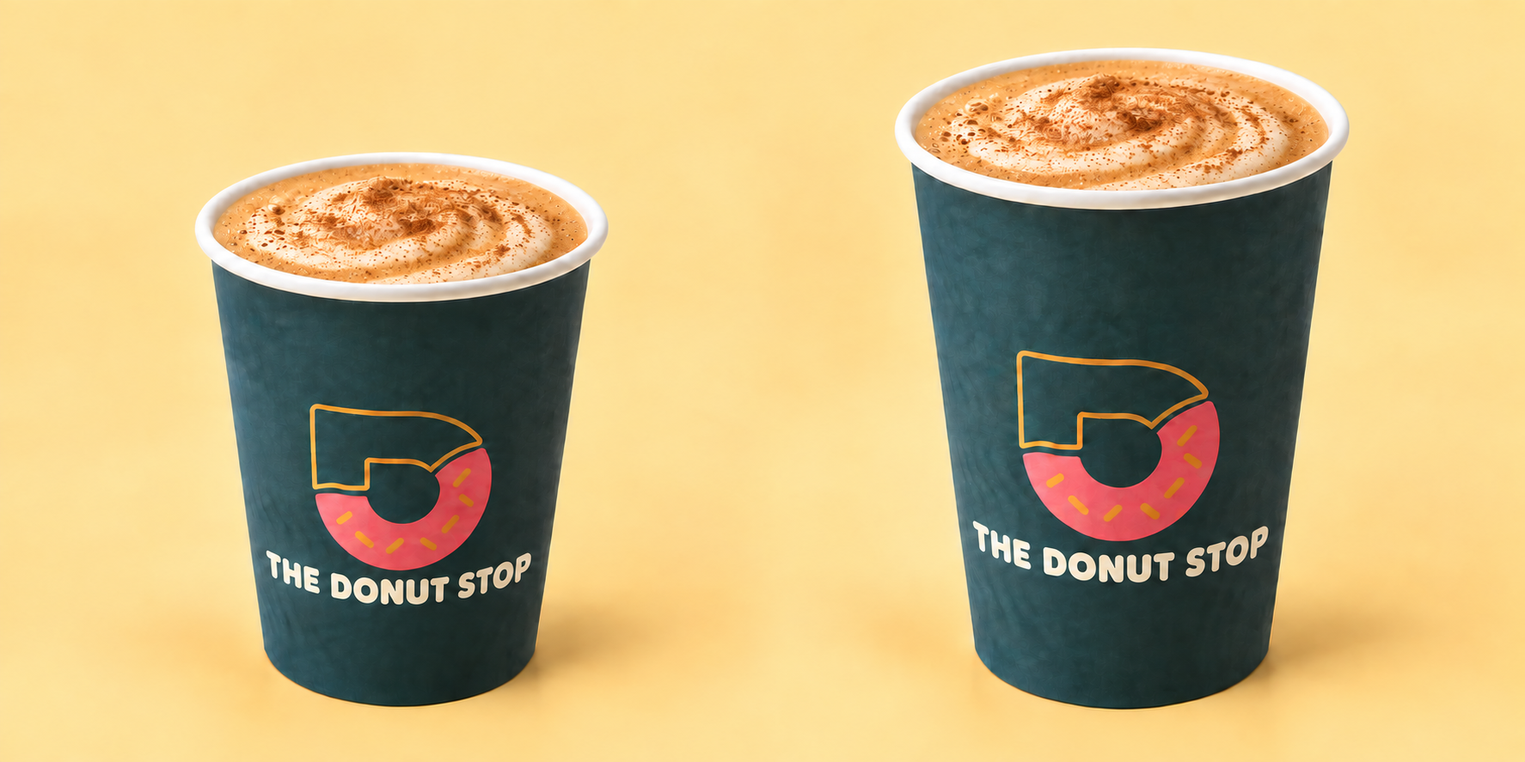
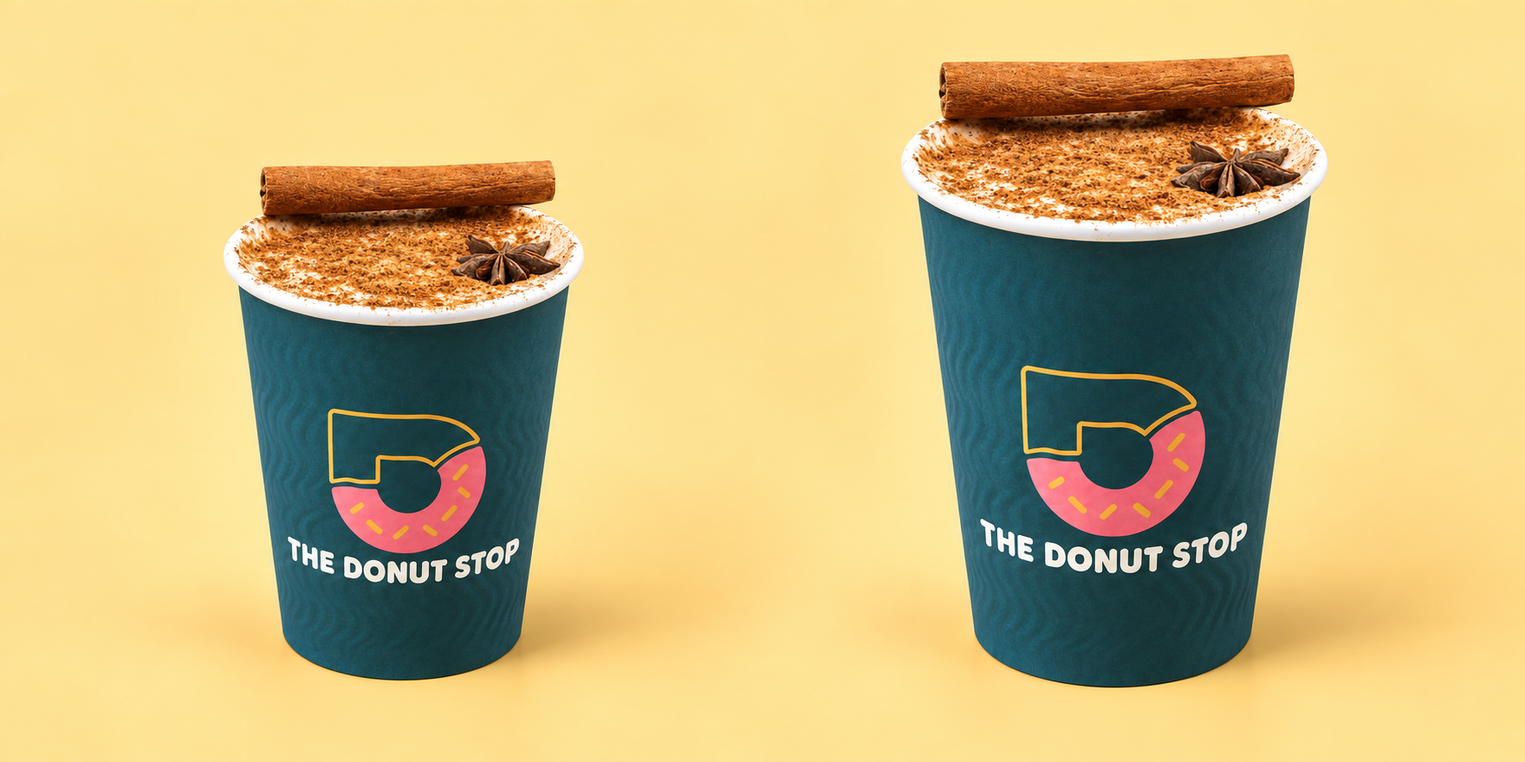
Add new menu items, update product images and prices, sort by price, and improve cart design.

Changed region(s): [[0.5891, 0.0609, 0.8991, 0.9436], [0.124, 0.1826, 0.403, 0.9436]]

diff --git a/src/components/menu/menuData.js b/src/components/menu/menuData.js
@@ -1,13 +1,17 @@
 const menu = {
   donuts: [
-    ['Original Glaze',6,'01-original-glaze.png'],['Coconut Glaze',6,'02-coconut-glaze.png'],['Toasted Coconut Glaze',6,'03-toasted-coconut-glaze.png'],['Powdered Sugar',6,'04-powdered-sugar.png'],['Chocolate Dip',6,'05-chocolate-dip.png'],['Pistachio Dip',6,'06-pistachio-dip.png'],['White Chocolate Dip',6,'07-white-chocolate-dip.png'],['Lemon Dip',6,'08-lemon-dip.png'],['Twister',6,'09-twister.png'],['Nutella Filling',7,'14-nutella-filling.png'],['Boston Cream (Custard Filling)',7,'15-boston-cream-custard-filling.png'],['Lotus Filling',7,'16-lotus-filling.png'],['Caramel Filling',7,'17-caramel-filling.png'],['Oreo Filling',7,'18-oreo-filling.png'],['Lemon Cheesecake',7,'21-lemon-cheesecake.png'],['Ferrero Filling',7,'22-ferrero-filling.png'],['Kinder Bueno Filling',7,'25-kinder-bueno-filling.png'],['Marshmallow Filling',7,'26-marshmallow-filling.png'],['Cotton Candy Filling',7,'27-cotton-candy-filling.png'],['Butter Cookie Filling',7,'28-butter-cookies-filling.png'],['Long John (Custard Filling)',7,'29-long-john-custard-filling.png'],['Bounty Filling',7,'30-bounty-filling.png'],['Pistachio Filling',8,'13-pistachio-filling.png'],['Strawberry Filling',8,'19-strawberry-filling.png'],['Blueberry Filling',8,'20-blueberry-filling.png'],['Apple Fritter',8,'31-apple-fritter.png'],['Crème Brûlée Donut',8,'32-creme-brulee-donut.png'],['Dubai Donut',10,'10-dubai-donut.png'],['Tiramisu Filling',10,'11-tiramisu-filling.png'],['Pecan Donut',10,'12-pecan-donut.png'],['Red Velvet with Cream Cheese',10,'34-red-velvet-cream-cheese.png'],['Blueberry Cheesecake',10,'35-blueberry-cheesecake.png'],['Strawberry Jam & Cream',10,'36-strawberry-jam-cream.png'],['Mini Donut Bites',20,'33-mini-donut-bites.png']
+    ['Original Glaze',6,'01-original-glaze.png'],['Coconut Glaze',6,'02-coconut-glaze.png'],['Toasted Coconut Glaze',6,'03-toasted-coconut-glaze.png'],['Powdered Sugar',6,'04-powdered-sugar.png'],['Chocolate Dip',6,'05-chocolate-dip.png'],['Pistachio Dip',6,'06-pistachio-dip.png'],['White Chocolate Dip',6,'07-white-chocolate-dip.png'],['Lemon Dip',6,'08-lemon-dip.png'],['Twister',6,'09-twister.png'],['Nutella Filling',7,'14-nutella-filling.png'],['Boston Cream (Custard Filling)',7,'15-boston-cream-custard-filling.png'],['Lotus Filling',7,'16-lotus-filling.png'],['Caramel Filling',7,'17-caramel-filling.png'],['Oreo Filling',7,'18-oreo-filling.png'],['Lemon Cheesecake',7,'21-lemon-cheesecake.png'],['Ferrero Filling',7,'22-ferrero-filling.png'],['Kinder Bueno Filling',7,'25-kinder-bueno-filling.png'],['Marshmallow Filling',7,'26-marshmallow-filling.png'],['Cotton Candy Filling',7,'27-cotton-candy-filling.png'],['Butter Cookie Filling',7,'28-butter-cookies-filling.png'],['Long John (Custard Filling)',7,'29-long-john-custard-filling.png'],['Bounty Filling',7,'30-bounty-filling.png'],['Pistachio Filling',8,'13-pistachio-filling.png'],['Strawberry Filling',8,'19-strawberry-filling.png'],['Blueberry Filling',8,'20-blueberry-filling.png'],['Apple Fritter',8,'31-apple-fritter.png'],['Crème Brûlée Donut',8,'32-creme-brulee-donut.png'],['Dubai Donut',10,'10-dubai-donut.png'],['Tiramisu Filling',10,'11-tiramisu-filling.png'],['Pecan Donut',10,'12-pecan-donut.png'],['Red Velvet with Cream Cheese',10,'34-red-velvet-cream-cheese.png'],['Blueberry Cheesecake',10,'35-blueberry-cheesecake.png'],['Strawberry Jam & Cream',10,'36-strawberry-jam-cream.png'],['Peanut Butter & Jam',10,'37-peanut-butter-jam.png'],['Halawa',7,'38-halawa.png'],['Pumpkin',10,'39-pumpkin.png'],['Cinnamon Rolls',8,'40-cinnamon-rolls.png'],['Mini Donut Bites',20,'33-mini-donut-bites.png']
   ],
-  hot: [['Americano','S 10 / L 12'],['Cappuccino','S 10 / L 12'],['Flat White',12],['Latte',12],['Mocha',14],['White Mocha',14],['Hot Chocolate',14],['Marshmallow Hot Chocolate',14],['Chai Latte',14],['French Vanilla',14],['Hot Hazelnut',14],['Hot Lotus',14],['Hot Spanish Latte',14],['Hot Salted Caramel',14],['Sahlab',14],['Pumpkin Spice Latte',14],['Espresso','S 8 / L 10'],['Ristretto',7],['Lungo',7],['Doppio',10]],
-  cold: [['Iced Coffee','S 14 / L 16'],['Iced Coffee Diet','S 14 / L 16'],['Iced Cappuccino',15],['Iced Latte',15],['Iced Americano',12],['Iced Spanish Latte',15],['Iced Vanilla',15],['Iced Chocolate',15],['Iced Tea',12],['Iced Lemon Mint',14],['Classic Mojito',14],['Strawberry Mojito',14],['Passion Fruit Mojito',14],['Blueberry Mojito',14],['Watermelon Mojito',14],['Bubble Gum Mojito',14],['Mango Mojito',14],['Mix Berries Mojito',14],['Pineapple Mojito',14],['Kiwi Mojito',14],['Green Apple Mojito',14],['Blue Curacao Mojito',14],['Strawberry Kiwi Mojito',14],['Mango Passion Mojito',14],['Berry Mix Mojito',14],['Tropical Mojito',14],['Blue Lagoon Mojito',14]],
+  hot: [['Americano','S 10 / L 12'],['Cappuccino','S 10 / L 12'],['Flat White',12],['Latte',12],['Mocha',14],['White Mocha',14],['Hot Chocolate',14],['Marshmallow Hot Chocolate',14],['Chai Latte',14],['French Vanilla',14],['Hot Hazelnut',14],['Hot Lotus',14],['Hot Spanish Latte',14],['Hot Salted Caramel',14],['Sahlab',14],['Pumpkin Spice Latte',15],['Chai Pumpkin Spice',15],['Caramel Pumpkin Latte',15],['Espresso','S 8 / L 10'],['Ristretto',7],['Lungo',7],['Doppio',10]],
+  cold: [['Ice Pumpkin Latte',16],['Ice Pumpkin',15],['Iced Coffee','S 14 / L 16'],['Iced Coffee Diet','S 14 / L 16'],['Iced Cappuccino',15],['Iced Latte',15],['Iced Americano',12],['Iced Spanish Latte',15],['Iced Vanilla',15],['Iced Chocolate',15],['Iced Tea',12],['Iced Lemon Mint',14],['Classic Mojito',14],['Strawberry Mojito',14],['Passion Fruit Mojito',14],['Blueberry Mojito',14],['Watermelon Mojito',14],['Bubble Gum Mojito',14],['Mango Mojito',14],['Mix Berries Mojito',14],['Pineapple Mojito',14],['Kiwi Mojito',14],['Green Apple Mojito',14],['Blue Curacao Mojito',14],['Strawberry Kiwi Mojito',14],['Mango Passion Mojito',14],['Berry Mix Mojito',14],['Tropical Mojito',14],['Blue Lagoon Mojito',14]],
   blends: [['Strawberry Smoothie',14],['Mango Smoothie',14],['Mix Berries Smoothie',14],['Blueberry Smoothie',14],['Pineapple Smoothie',14],['Passion Fruit Smoothie',14],['Watermelon Smoothie',14],['Vanilla Espresso Frappe',14],['Chocolate Espresso Frappe',16],['Caramel Espresso Frappe',16]]
 };
 
 const donutDescriptions = {
+  "Cinnamon Rolls": { ar: 'رول القرفة بطبقة جليز حلوة وخفيفة', en: 'A cinnamon roll with a light, sweet glaze' },
+  "Peanut Butter & Jam": { ar: 'دونات بزبدة الفول السوداني والمربّى', en: 'A donut with peanut butter and jam' },
+  "Halawa": { ar: 'دونات بالحلاوة والفستق', en: 'A donut topped with halawa and pistachios' },
+  "Pumpkin": { ar: 'دونات بنكهة اليقطين', en: 'A pumpkin-flavored donut' },
   "Original Glaze": {
     "ar": "بطبقة جليز حلوة وخفيفة",
     "en": "A light, sweet glaze"
@@ -147,6 +151,8 @@ const donutDescriptions = {
 };
 
 const coldDrinkDescriptions = {
+  "Ice Pumpkin Latte": { ar: 'لاتيه بارد بنكهة اليقطين', en: 'An iced pumpkin latte' },
+  "Ice Pumpkin": { ar: 'مشروب اليقطين البارد بالكريمة والتوابل', en: 'A chilled pumpkin drink with cream and spices' },
   "Iced Coffee": {
     "ar": "قهوة باردة بالحليب والثلج",
     "en": "Chilled coffee with milk and ice"

diff --git a/output/autumn-catalog/preview.html b/output/autumn-catalog/preview.html
@@ -1,0 +1,1 @@
+<!doctype html><html lang="ar" dir="rtl"><meta charset="utf-8"><meta name="viewport" content="width=device-width,initial-scale=1"><title>الأصناف الجديدة — معاينة</title><link rel="stylesheet" href="/src/styles/global.css"><style>body{padding:32px max(20px,5vw)}main{max-width:1150px;margin:auto}h1{margin:8px 0}header p{color:#607775;line-height:1.8}.grid{display:grid;grid-template-columns:repeat(3,minmax(0,1fr));gap:20px;margin-bottom:36px}.card{background:white;border-radius:22px;overflow:hidden;border:1px solid #eee5d7}.photo{position:relative;aspect-ratio:1.3;overflow:hidden;background:#ffe299}.photo.donut{display:grid;place-items:center;background:#ffd7df}.photo.donut img{width:85%;height:90%;object-fit:contain}.photo.drink{aspect-ratio:1}.photo.drink img{position:absolute;width:200%;height:100%;max-width:none;left:-100%;top:0}.info{padding:20px;display:flex;align-items:center;justify-content:space-between;gap:15px}h3{font-family:'DM Sans',sans-serif;font-size:16px;margin:0;text-align:start}strong{white-space:nowrap;color:#9d3c58}.notice{padding:12px 18px;border-radius:12px;background:#fff0ce;line-height:1.7}@media(max-width:700px){.grid{grid-template-columns:repeat(2,minmax(0,1fr));gap:12px}.info{padding:14px;flex-wrap:wrap}h3{font-size:14px}}@media(max-width:380px){.grid{grid-template-columns:1fr}}</style><main><header><span class="eyebrow">THE DONUT STOP</span><h1>نكهات جديدة، بنفس الحلاوة</h1><p>الأصناف والصور والأسعار المعتمدة.</p><p class="notice">الصور المعتمدة: Pumpkin بالكريمة والبيكان، Pumpkin Spice Latte بالقرفة واليانسون، Caramel برسمة اللاتيه، وChai بالكوب المزيّن بالمكسرات. أُضيف Cinnamon Rolls بسعر 8 شيقل.</p></header><h2>الدونات</h2><div class="grid"><article class="card"><div class="photo donut"><img src="/assets/donuts/38-halawa.png" alt="Halawa"></div><div class="info"><h3 dir="ltr">Halawa</h3><strong>7 ₪</strong></div></article><article class="card"><div class="photo donut"><img src="/assets/donuts/40-cinnamon-rolls.png?v=2" alt="Cinnamon Rolls"></div><div class="info"><h3 dir="ltr">Cinnamon Rolls</h3><strong>8 ₪</strong></div></article><article class="card"><div class="photo donut"><img src="/assets/donuts/37-peanut-butter-jam.png" alt="Peanut Butter &amp; Jam"></div><div class="info"><h3 dir="ltr">Peanut Butter &amp; Jam</h3><strong>10 ₪</strong></div></article><article class="card"><div class="photo donut"><img src="/assets/donuts/39-pumpkin.png" alt="Pumpkin"></div><div class="info"><h3 dir="ltr">Pumpkin</h3><strong>10 ₪</strong></div></article></div><h2>المشروبات الساخنة</h2><div class="grid"><article class="card"><div class="photo drink"><img src="/assets/hot-drinks/Pumpkin%20Spice%20Latte.png" alt="Pumpkin Spice Latte"></div><div class="info"><h3 dir="ltr">Pumpkin Spice Latte</h3><strong>15 ₪</strong></div></article><article class="card"><div class="photo drink"><img src="/assets/hot-drinks/Chai%20Pumpkin%20Spice.png" alt="Chai Pumpkin Spice"></div><div class="info"><h3 dir="ltr">Chai Pumpkin Spice</h3><strong>15 ₪</strong></div></article><article class="card"><div class="photo drink"><img src="/assets/hot-drinks/Caramel%20Pumpkin%20Latte.png" alt="Caramel Pumpkin Latte"></div><div class="info"><h3 dir="ltr">Caramel Pumpkin Latte</h3><strong>15 ₪</strong></div></article></div><h2>المشروبات الباردة</h2><div class="grid"><article class="card"><div class="photo drink"><img src="/assets/cold-drinks/Ice%20Pumpkin.png" alt="Ice Pumpkin"></div><div class="info"><h3 dir="ltr">Ice Pumpkin</h3><strong>15 ₪</strong></div></article><article class="card"><div class="photo drink"><img src="/assets/cold-drinks/Ice%20Pumpkin%20Latte.png" alt="Ice Pumpkin Latte"></div><div class="info"><h3 dir="ltr">Ice Pumpkin Latte</h3><strong>16 ₪</strong></div></article></div></main></html>

diff --git a/src/components/orders/orders.css b/src/components/orders/orders.css
@@ -1,1 +1,10 @@
 .order-tracking{scroll-margin-top:85px;padding:24px max(5vw,20px) 0;display:grid;gap:12px}.order-status{display:flex;align-items:flex-start;gap:16px;border:1px solid #b9cfca;border-radius:20px;padding:22px;background:#f1f7ee;color:var(--dark)}.order-status-icon{margin-top:3px;flex-shrink:0}.order-status-content{flex:1;min-width:0}.order-status h2{font-size:19px;margin:0 0 8px}.order-status h2 bdi{display:inline-block;margin-inline-start:8px}.order-status p{margin:0 0 10px}.order-status small{display:block}.tracking-hint{opacity:.75;margin-top:8px}.order-status-cancelled{background:#fff0f0;border-color:#e4b9bc}.tracking-error{margin-top:12px;color:#922b35}.tracking-error button,.tracking-dismiss{font:inherit;color:inherit;border:1px solid currentColor;border-radius:20px;padding:6px 14px;background:transparent;cursor:pointer}.order-status button:focus-visible{outline:3px solid #c75980;outline-offset:3px}@media(max-width:500px){.order-status{padding:16px;gap:10px;flex-wrap:wrap}.order-status h2{font-size:17px}.tracking-dismiss{margin-inline-start:auto}}
+
+.order-tracking{max-width:1220px;margin-inline:auto;padding-top:32px}
+.order-status{position:relative;gap:20px;padding:28px;background:linear-gradient(115deg,#fff7ed,#fff5f7);border:1px solid #eedbd7;border-radius:26px;box-shadow:0 12px 32px #63413306}
+.order-status-symbol{width:52px;height:52px;display:grid;place-items:center;flex-shrink:0;background:#19494b;color:#ffe1a0;border-radius:17px}
+.order-status-icon{margin:0}.order-status h2{font-size:24px;margin:6px 0 12px;line-height:1.5}.order-status h2 bdi{font-family:'DM Sans',sans-serif;font-size:15px;background:white;border:1px solid #eadbd4;border-radius:8px;padding:4px 9px;vertical-align:middle}
+.tracking-eyebrow{font-size:13px;font-weight:800;color:#a04460}.order-status p{line-height:1.7;font-size:16px}.order-status small{color:#526e6c;font-size:14px}.tracking-hint{opacity:1;display:flex!important;align-items:center;gap:7px}.tracking-hint::before{content:'';width:6px;height:6px;background:#397569;border-radius:50%;flex:none}
+.tracking-steps{list-style:none;display:flex;padding:22px 0 18px;margin:20px 0 0;border-top:1px solid #eaded7}.tracking-steps li{position:relative;flex:1;display:flex;flex-direction:column;align-items:center;gap:10px;text-align:center;color:#697b77;font-size:13px;font-weight:700;line-height:1.5}.tracking-steps li:not(:last-child)::after{content:'';position:absolute;top:16px;inset-inline-start:calc(50% + 22px);width:calc(100% - 44px);height:2px;background:#d9dfd7}.tracking-step-dot{display:grid;place-items:center;width:34px;height:34px;border-radius:50%;border:1px solid #d8dfd8;background:#fffcf7;font-family:'DM Sans',sans-serif;font-size:13px}.tracking-steps .is-current{color:#17484b}.is-current .tracking-step-dot{background:#17484b;border-color:#17484b;color:white;box-shadow:0 0 0 5px #17484b0d}.is-done .tracking-step-dot{background:#dcebe2;border-color:#a7c6b6;color:#17484b}.tracking-steps .is-done::after{background:#84aea0}
+.order-status-cancelled{background:#fff0f0;border-color:#e4b9bc}.order-status-cancelled .order-status-symbol{background:#963f4d;color:white}.tracking-error{padding:12px;background:#ffffffb3;border-radius:12px}.tracking-error p{font-size:14px}
+@media(max-width:600px){.order-tracking{padding:20px 20px 0}.order-status{padding:20px;gap:12px}.order-status-symbol{width:40px;height:40px;border-radius:13px}.order-status h2{font-size:21px}.order-status h2 bdi{margin:4px 0;font-size:12px}.tracking-eyebrow{font-size:12px}.tracking-steps{margin-inline-start:-52px}.tracking-steps li{font-size:11px}.order-status p{font-size:14px}.order-status small{font-size:12px}}

diff --git a/src/components/orders/OrderTracker.jsx b/src/components/orders/OrderTracker.jsx
@@ -47,14 +47,18 @@ function OrderStatus({ order }) {
     completed: en ? `Your order has been completed (${delivery ? 'delivery' : 'pickup'}). Thank you!` : `تم إكمال طلبك (${delivery ? 'توصيل' : 'استلام من الفرع'}). شكرًا لك!`,
     cancelled: en ? 'Your order has been cancelled.' : 'تم إلغاء طلبك.',
   };
+  const steps = en ? ['Sent', 'Preparing', delivery ? 'Ready for delivery' : 'Ready for pickup', 'Completed'] : ['تم الإرسال', 'قيد التحضير', delivery ? 'جاهز للتوصيل' : 'جاهز للاستلام', 'مكتمل'];
+  const stepIndex = ['new', 'preparing', 'ready', 'completed'].indexOf(order.status);
   const Icon = order.status === 'cancelled' ? CancelOutlinedIcon : ['ready', 'completed'].includes(order.status) ? CheckCircleOutlineIcon : AccessTimeIcon;
   return <article className={`order-status order-status-${order.status}`} aria-label={`${en ? 'Order' : 'الطلب'} ${order.order_number}`}>
-    <Icon className="order-status-icon" />
+    <div className="order-status-symbol"><Icon className="order-status-icon" /></div>
     <div className="order-status-content">
+      <span className="tracking-eyebrow">{en ? "A little happiness is on its way" : "طلبك الحلو… خطوة بخطوة"}</span>
       <h2>{en ? 'Track your order' : 'متابعة طلبك'} <bdi>{order.order_number}</bdi></h2>
       <p role="status" aria-live="polite" aria-atomic="true">{messages[order.status]}</p>
       <small>{en ? order.branch_name_en : order.branch_name_ar} · {order.total} ₪ · {delivery ? (en ? 'Delivery' : 'توصيل') : (en ? 'Pickup' : 'استلام من الفرع')}</small>
-      {!final && <small className="tracking-hint">{en ? 'Status updates automatically every 5 seconds.' : 'تتحدّث حالة الطلب تلقائيًا كل 5 ثوانٍ.'}</small>}
+      {order.status !== 'cancelled' && <ol className="tracking-steps" aria-label={en ? 'Order progress' : 'مراحل الطلب'}>{steps.map((label, index) => <li key={label} className={index < stepIndex ? 'is-done' : index === stepIndex ? 'is-current' : ''} aria-current={index === stepIndex ? 'step' : undefined}><span className="tracking-step-dot" aria-hidden="true">{index < stepIndex ? '✓' : index + 1}</span><span>{label}</span></li>)}</ol>}
+      {!final && <small className="tracking-hint">{en ? 'We’ll keep you updated automatically.' : 'خليك معنا، حالة طلبك بتتحدّث تلقائيًا.'}</small>}
       {error && <div className="tracking-error" role="alert"><p>{error === 'missing' ? (en ? 'This order could not be found. Contact the branch with your order number.' : 'تعذّر العثور على الطلب. تواصل مع الفرع مع ذكر رقم طلبك.') : (en ? 'Unable to refresh the status. Showing the last known update; reconnecting automatically.' : 'تعذّر تحديث الحالة. نعرض آخر حالة معروفة ونحاول الاتصال مجددًا.')}</p><button type="button" onClick={() => setRevision(value => value + 1)}>{en ? 'Retry' : 'إعادة المحاولة'}</button></div>}
     </div>
     {final && <button type="button" className="tracking-dismiss" onClick={() => dismissOrder(order.requestId)}>{en ? 'Dismiss' : 'إخفاء'}</button>}

diff --git a/src/components/cart/cart.css b/src/components/cart/cart.css
@@ -5,3 +5,6 @@
 .offer-options .offer-option{display:flex;align-items:center;flex-wrap:wrap;gap:12px;padding:12px;border:1px solid #b9cfca;border-radius:12px;background:white}.offer-option-product{flex:1}.offer-option .quantity-controls{width:100%;justify-content:flex-end}.offer-options .quantity-controls button{padding:8px;min-width:44px;min-height:44px}.offer-actions{padding-top:16px}.offer-actions p{margin:0 0 8px}.offer-actions .quantity-confirm{margin-top:8px}
 .cart-heading{display:flex;align-items:center;justify-content:space-between;flex-wrap:wrap;gap:12px;margin-bottom:12px}.cart-heading h2{margin:0}.cart-clear{display:inline-flex;align-items:center;justify-content:center;gap:8px;min-height:44px;color:#a02b35}
 .cart-clear.tab svg{color:#a02b35}.cart-clear.tab:not(:disabled):hover{background:#a02b35;border-color:#a02b35;color:white}.cart-clear.tab:not(:disabled):hover svg{color:white}
+
+.cart-page{max-width:1220px;margin-inline:auto;padding-top:36px;padding-bottom:64px;min-height:0}.cart-page .breadcrumbs{font-size:14px;margin-bottom:28px}.cart-page .section-heading{align-items:center;margin-bottom:24px}.cart-page h1{font-size:clamp(32px,4vw,46px);margin:6px 0 8px;line-height:1.2}.cart-page-eyebrow,.cart-empty-eyebrow{color:#a04460;font-size:12px;font-weight:800;letter-spacing:.05em}.cart-page-intro{margin:0;color:#607775;font-size:16px;line-height:1.6}.cart-page .section-heading>.tab{flex-shrink:0;background:transparent}.cart-page .section-heading>.tab:hover{background:var(--dark)}.cart-page .cart-panel{border-color:#e8e2d7;border-radius:26px;box-shadow:0 10px 30px #19474a05;margin:0}.cart-page .cart-panel-empty{background:linear-gradient(110deg,#fffdf8,#fff);padding:30px 40px}.cart-empty{display:flex;align-items:center;justify-content:center;gap:42px;max-width:780px;margin:auto;padding:16px 0}.cart-empty-art{position:relative;display:grid;place-items:center;flex:0 0 180px;width:180px;height:180px;border-radius:50%;background:#ffe6e8}.cart-empty-art::before{content:'';position:absolute;inset:12px;border:1px dashed #d9919f;border-radius:50%}.cart-empty-art img{position:relative;width:160px;height:160px;object-fit:contain;transform:rotate(-13deg);filter:drop-shadow(0 12px 12px #994e4220)}.cart-empty-spark{position:absolute;top:10px;inset-inline-end:0;font-size:34px;color:#a85d13}.cart-empty-copy{max-width:430px}.cart-empty-copy h2{font-size:clamp(24px,3vw,31px);margin:10px 0 12px;line-height:1.4}.cart-empty-copy p{color:#607775;line-height:1.9;margin:0 0 22px;font-size:16px}.cart-empty .button{font-size:15px;padding:14px 24px;gap:20px}
+@media(max-width:600px){.cart-page{padding-top:28px;padding-bottom:40px}.cart-page .section-heading{gap:18px}.cart-page .cart-panel-empty{padding:24px 20px}.cart-empty{flex-direction:column;gap:24px;text-align:center;padding:6px 0}.cart-empty-art{flex-basis:140px;width:140px;height:140px}.cart-empty-art img{width:125px;height:125px}.cart-empty-copy p{font-size:14px}.cart-page-intro{font-size:14px}.cart-empty .button{width:100%}}

diff --git a/src/components/cart/Cart.jsx b/src/components/cart/Cart.jsx
@@ -8,6 +8,7 @@ import { offerTitle } from '../../lib/offerCatalog';
 import { supabase } from '../../lib/supabase';
 import { isAvailable, tracksQuantity } from '../../lib/availability';
 import './cart.css';
+import EmptyCart from './EmptyCart';
 import { useOrderTracking } from '../orders/OrderTrackingContext';
 import PauseCircleOutlineIcon from '@mui/icons-material/PauseCircleOutlined';
 import useOrderHold from '../../lib/useOrderHold';
@@ -98,6 +99,7 @@ export default function Cart({ branch, cart, setCart, rows, en, locked, setLocke
       }
     } finally { sendingRef.current = false; setSending(false); if (!pending.current) setLocked(false); }
   }
+  if (!cart.length) return <section className="cart-panel cart-panel-empty"><EmptyCart en={en} branch={branch} /></section>;
   return <section className="cart-panel" aria-labelledby="cart-title"><div className="cart-heading"><h2 id="cart-title">{en ? 'Your cart' : 'سلة الطلب'}</h2>{cart.length > 0 && <button className="tab cart-clear" type="button" disabled={locked || sending} onClick={clearCart}><DeleteOutlineIcon aria-hidden="true" />{en ? 'Clear cart' : 'إفراغ السلة'}</button>}</div><p>{en ? 'Your order is from ' : 'طلبك من فرع '}<strong>{en ? branch.name_en : branch.name_ar}</strong></p>
     {!cart.length ? <p>{en ? 'Your cart is empty.' : 'السلة فارغة.'}</p> : <>
       <ul className="cart-lines">{cart.map(item => <li key={item.id}><div className="cart-product">{productImage(item) && <img src={productImage(item)} alt="" loading="lazy" decoding="async" />}<div><strong>{item.name}</strong> {item.size !== 'standard' && `(${item.size})`}<p>{quote?.lines.find(line => line.variant_id === item.id)?.unit_price ?? item.price} ₪ × {item.quantity}</p>{Number(quote?.lines.find(line => line.variant_id === item.id)?.free_quantity) > 0 && <small className="cart-free">{en ? 'Free donuts: ' : 'حبات مجانية: '}{quote.lines.find(line => line.variant_id === item.id).free_quantity}</small>}</div></div><div className="quantity-controls"><button type="button" disabled={locked} aria-label={`${en ? 'Decrease' : 'تقليل'} ${item.name}`} onClick={() => change(item.id,-1)}><RemoveIcon /></button><span>{item.quantity}</span><button type="button" disabled={locked || !canIncrease(item)} aria-label={`${en ? 'Increase' : 'زيادة'} ${item.name}`} onClick={() => change(item.id,1)}><AddIcon /></button><button type="button" disabled={locked} onClick={() => setCart(current => current.filter(value => value.id !== item.id))}>{en ? 'Remove' : 'حذف'}</button></div></li>)}</ul>

diff --git a/src/components/menu/MenuCatalog.jsx b/src/components/menu/MenuCatalog.jsx
@@ -18,13 +18,22 @@ export default function MenuCatalog() {
     setCategory(categories[next][0]);
     document.getElementById(`tab-${categories[next][0]}`)?.focus();
   }
-  const heading = index => category === 'cold' ? ({ 0: 'مشروبات باردة', 10: 'نكهات الموهيتو', 21: 'خلطات الموهيتو' })[index] : category === 'blends' ? ({ 0: 'سموذي', 7: 'فرابيه' })[index] : null;
+  const priceFor = ([, price]) => {
+    if (typeof price === 'number') return price;
+    const prices = price.match(/^S (\d+) \/ L (\d+)$/);
+    return Number(prices[1]);
+  };
+  const groups = category === 'cold'
+    ? [['مشروبات باردة', menu.cold.filter(([name]) => !name.includes('Mojito'))], ['نكهات الموهيتو', menu.cold.filter(([name]) => name.includes('Mojito'))]]
+    : category === 'blends'
+      ? [['سموذي', menu.blends.filter(([name]) => name.includes('Smoothie'))], ['فرابيه', menu.blends.filter(([name]) => name.includes('Frappe'))]]
+      : [[null, menu[category]]];
   return <>
     <div className="tabs" role="tablist" aria-label={t('فئات المنيو')}>
       {categories.map(([key, label], index) => <button key={key} id={`tab-${key}`} type="button" className={`tab${category === key ? ' active' : ''}`} role="tab" aria-selected={category === key} aria-controls="menu-list" tabIndex={category === key ? 0 : -1} onKeyDown={event => moveTab(event, index)} onClick={() => setCategory(key)}>{t(label)}</button>)}
     </div>
     <div id="menu-list" className={`menu-grid ${category === 'donuts' ? 'donut-grid' : 'hot-drink-grid'}`} role="tabpanel" aria-labelledby={`tab-${category}`} tabIndex={0}>
-      {menu[category].map((item, index) => <Fragment key={item[0]}>{heading(index) && <h2 className="menu-group-heading">{t(heading(index))}</h2>}{category === 'donuts' ? <DonutCard item={item} index={index} /> : <DrinkCard item={item} category={category} selectedSize={sizes[item[0]]} onSizeChange={selectSize} />}</Fragment>)}
+      {groups.map(([heading, items]) => <Fragment key={heading || category}>{heading && <h2 className="menu-group-heading">{t(heading)}</h2>}{[...items].sort((a, b) => priceFor(a) - priceFor(b)).map((item, index) => category === 'donuts' ? <DonutCard key={item[0]} item={item} index={index} /> : <DrinkCard key={item[0]} item={item} category={category} selectedSize={sizes[item[0]]} onSizeChange={selectSize} />)}</Fragment>)}
     </div>
   </>;
 }

diff --git a/src/components/menu/BranchMenu.jsx b/src/components/menu/BranchMenu.jsx
@@ -12,6 +12,16 @@ import CheckRoundedIcon from '@mui/icons-material/CheckRounded';
 const categories = [['donuts', 'دونات', 'Donuts'], ['hot', 'مشروبات ساخنة', 'Hot drinks'], ['cold', 'مشروبات باردة', 'Cold drinks'], ['blends', 'سموذي وفرابيه', 'Smoothies & frappes']];
 const storageKey = 'donut-stop-branch';
 
+function productVariants(product) {
+  return [...product.variants].sort((a, b) => ({ S: 0, L: 1 }[a.product_variants.size] ?? 0) - ({ S: 0, L: 1 }[b.product_variants.size] ?? 0));
+}
+
+function startingPrice(product) {
+  const variants = productVariants(product);
+  const row = variants[0];
+  return Number(row.price_override ?? row.product_variants.price);
+}
+
 export default function BranchMenu() {
   const { language } = useLanguage();
   const en = language === 'en';
@@ -103,8 +113,8 @@ export default function BranchMenu() {
     {error ? <div role="alert"><p>{en ? 'We could not load availability. Please try again.' : 'تعذّر تحميل التوفر. يرجى المحاولة مجددًا.'}</p><button className="tab" onClick={() => setRetry(value => value + 1)}>{en ? 'Retry' : 'إعادة المحاولة'}</button></div> : loading ? <p role="status">{en ? 'Loading…' : 'جارٍ التحميل…'}</p> : branch ? <>
       <div className="tabs" role="group" aria-label={en ? 'Menu categories' : 'فئات المنيو'}>{branchCategories.map(([key, ar, english]) => <button type="button" className={`tab${category === key ? ' active' : ''}`} aria-pressed={category === key} key={key} onClick={() => setCategory(key)}>{en ? english : ar}</button>)}</div>
       <div id="menu-list" className={`menu-grid ${category === 'donuts' ? 'donut-grid' : 'hot-drink-grid'}`}>
-        {[...products.values()].sort((a, b) => a.sort_order - b.sort_order).map((product, index) => {
-          const variants = product.variants.sort((a, b) => ({ S: 0, L: 1 }[a.product_variants.size] ?? 0) - ({ S: 0, L: 1 }[b.product_variants.size] ?? 0));
+        {[...products.values()].sort((a, b) => startingPrice(a) - startingPrice(b) || a.sort_order - b.sort_order).map((product, index) => {
+          const variants = productVariants(product);
           const row = variants.find(item => item.product_variants.id === sizes[product.id]) || variants[0];
           const variant = row.product_variants;
           const available = isAvailable(product.category, row);

diff --git a/src/pages/Cart/CartPage.jsx b/src/pages/Cart/CartPage.jsx
@@ -2,6 +2,7 @@ import { useEffect, useState } from 'react';
 import { Link } from 'react-router';
 import { useCart } from '../../components/cart/CartContext';
 import Cart from '../../components/cart/Cart';
+import EmptyCart from '../../components/cart/EmptyCart';
 import Breadcrumbs from '../../components/Breadcrumbs/Breadcrumbs';
 import { useLanguage } from '../../i18n/LanguageContext';
 import { getBranchMenu } from '../../lib/supabase';
@@ -25,8 +26,8 @@ export default function CartPage() {
   }, [branch, revision]);
   return <section className="section cart-page">
     <Breadcrumbs current={en ? 'Cart' : 'السلة'} />
-    <div className="section-heading"><h1>{en ? 'Your cart' : 'سلة الطلب'}</h1><Link className="tab" to={branch ? `/menu?branch=${branch.code}` : '/menu'}>{en ? 'Continue shopping' : 'متابعة التسوق'}</Link></div>
+    <div className="section-heading"><div><span className="cart-page-eyebrow">{en ? "YOUR SWEET PICKS" : "اختياراتك الحلوة"}</span><h1>{en ? 'Your cart' : 'سلة الطلب'}</h1><p className="cart-page-intro">{en ? 'Every sweet moment starts with a donut.' : 'كل لحظة حلوة، بتبدأ بحبة دونات.'}</p></div><Link className="tab" to={branch ? `/menu?branch=${branch.code}` : '/menu'}>{en ? 'Continue shopping' : 'متابعة التسوق'}</Link></div>
     {error && <p role="alert">{en ? 'Unable to refresh availability. Please try again.' : 'تعذّر تحديث التوفر. يرجى المحاولة مجددًا.'} <button className="tab" onClick={() => setRevision(value => value + 1)}>{en ? 'Retry' : 'إعادة المحاولة'}</button></p>}
-    {branch ? <Cart branch={branch} cart={cart} setCart={setCart} rows={rows} en={en} locked={locked} setLocked={setLocked} refresh={() => setRevision(value => value + 1)} /> : <div className="cart-panel"><p>{en ? 'Your cart is empty.' : 'السلة فارغة.'}</p><Link className="tab active" to="/menu">{en ? 'Browse the menu' : 'تصفح المنيو'}</Link></div>}
+    {branch ? <Cart branch={branch} cart={cart} setCart={setCart} rows={rows} en={en} locked={locked} setLocked={setLocked} refresh={() => setRevision(value => value + 1)} /> : <div className="cart-panel cart-panel-empty"><EmptyCart en={en} /></div>}
   </section>;
 }

diff --git a/src/components/cart/EmptyCart.jsx b/src/components/cart/EmptyCart.jsx
@@ -1,0 +1,15 @@
+import { Link } from 'react-router';
+import { useOrderTracking } from '../orders/OrderTrackingContext';
+
+export default function EmptyCart({ en, branch }) {
+  const { orders } = useOrderTracking();
+  const active = orders.some(order => !['completed', 'cancelled'].includes(order.status));
+  return <div className="cart-empty">
+    <div className="cart-empty-art" aria-hidden="true"><img src="/assets/donuts/19-strawberry-filling.png" alt="" /><span className="cart-empty-spark">✦</span></div>
+    <div className="cart-empty-copy"><span className="cart-empty-eyebrow">{en ? 'A BOX FULL OF HAPPY' : 'علبة مليانة سعادة'}</span>
+      <h2>{active ? (en ? 'Your sweet order is on its way!' : 'طلبك الحلو صار عندنا!') : (en ? 'A little sweetness is missing' : 'ناقصها شوية حلاوة')}</h2>
+      <p>{active ? (en ? 'Follow your order above. There’s always room for another sweet moment.' : 'تابع حالة طلبك بالأعلى، وإذا نفسك بحلا زيادة… المنيو بانتظارك.') : (en ? 'Your cart is empty. Pick your favorite donuts and make your day a little sweeter.' : 'سلتك لسه فاضية. اختار الدونات اللي بتحبها وخلّي يومك أحلى.')}</p>
+      <Link className="button button-dark" to={branch ? `/menu?branch=${branch.code}` : '/menu'}>{en ? 'Explore the menu' : 'اختار حلاوتك من المنيو'}<span aria-hidden="true">{en ? '→' : '←'}</span></Link>
+    </div>
+  </div>;
+}

diff --git a/src/pages/Admin/AdminFeatured.jsx b/src/pages/Admin/AdminFeatured.jsx
@@ -3,6 +3,8 @@ import { supabase } from '../../lib/supabase';
 import { menu } from '../../components/menu/menuData';
 import { validFeatured } from '../../lib/featuredProducts';
 
+const donutOptions = [...menu.donuts].sort((a, b) => Number(a[1]) - Number(b[1]));
+
 export default function AdminFeatured({ role }) {
   const [saved, setSaved] = useState(null);
   const [photos, setPhotos] = useState([]);
@@ -53,7 +55,7 @@ export default function AdminFeatured({ role }) {
         <span>الصنف {index + 1}</span>
         <img src={`/assets/donuts/${photo}`} alt="" />
         <select value={photo} disabled={!allowed || busy || !saved} onChange={event => { setPhotos(current => current.map((value, slot) => slot === index ? event.target.value : value)); setMessage(''); }}>
-          {menu.donuts.map(([name, price, image]) => <option key={image} value={image}>{name} — {price} ₪</option>)}
+          {donutOptions.map(([name, price, image]) => <option key={image} value={image}>{name} — {price} ₪</option>)}
         </select>
       </label>)}</div>
       {photos.length > 0 && !validFeatured(photos) && <p role="alert">اختر أربعة أصناف مختلفة دون تكرار.</p>}

diff --git a/output/autumn-catalog/README.md b/output/autumn-catalog/README.md
@@ -1,0 +1,44 @@
+# Autumn catalog assets
+
+Generated with the built-in imagegen tool using the supplied screenshots as product references and the existing Oreo, Iced Chocolate and Pumpkin Spice Latte assets as style references. Donuts use transparent PNG backgrounds. Drinks retain the existing 2:1 two-cup layout, where the menu displays the right-hand cup for standard size.
+
+## Final prompt set
+
+Common donut prompt: clean photorealistic studio product asset, one whole donut at a three-quarter angle, centered with safe transparent margins and genuine alpha, matching the existing Oreo asset's lighting; remove backgrounds, plates, text, hands and UI without changing product toppings.
+
+- Peanut Butter & Jam: preserve powdered sugar perimeter, dark jam center and peanut butter zigzag from 6:29:15; reconstruct edge hidden by ribbon.
+- Halawa: preserve white icing, shredded halawa and green pistachios from 6:27:44.
+- Pumpkin (approved reference): preserve beige cream spiral and pecan half from 6:50:33; remove video play overlay.
+
+Common drink prompt: photorealistic pale yellow studio background, 2:1 image with smaller cup in left square half and larger in right square half, both fully visible with margins and a common baseline, soft shadows, existing teal brand logo and THE DONUT STOP text, no surrounding props or prices.
+
+- Ice Pumpkin Latte: preserve layered milk and coffee, cinnamon foam and stick from 6:30:17.
+- Ice Pumpkin: preserve creamy spiced drink, whipped cream, star anise and cinnamon from 6:30:06.
+- Pumpkin Spice Latte (user-confirmed mapping): preserve cinnamon-dusted surface, cinnamon stick and star anise from 6:30:46.
+- Caramel Pumpkin Latte (user-confirmed mapping): preserve tan foam and white latte art from 6:30:37; use front branding.
+- Chai Pumpkin Spice (user-confirmed mapping): preserve separated nut/coconut toppings from 6:30:28.
+
+## Saved assets
+
+- `public/assets/donuts/37-peanut-butter-jam.png`
+- `public/assets/donuts/38-halawa.png`
+- `public/assets/donuts/39-pumpkin.png`
+- `public/assets/cold-drinks/Ice Pumpkin Latte.png`
+- `public/assets/cold-drinks/Ice Pumpkin.png`
+- `public/assets/hot-drinks/Chai Pumpkin Spice.png`
+- `public/assets/hot-drinks/Pumpkin Spice Latte.png`
+- `public/assets/hot-drinks/Caramel Pumpkin Latte.png`
+
+## Release status
+
+Local catalog and assets are prepared. The remote database has NOT been changed. Deploy the assets, then apply `supabase/migrations/202609240001_autumn_catalog.sql` using the trusted Supabase SQL editor/migration workflow. The migration is transactional and rerunnable, preserves existing IDs, stock, and availability, updates the requested prices (including existing non-null overrides), and initializes new donut inventory at zero. New drinks are not added to Icon Mall.
+
+All photo mappings were approved by the user on 2026-09-24 after the two requested hot-drink image swaps. The user identified the spiral pastry at 6:51:45 as Cinnamon Rolls and confirmed its price as 8 ILS. It is now added under donuts with a separate migration, 202609240002_cinnamon_rolls.sql.
+
+## Cinnamon Rolls
+
+Saved asset: `public/assets/donuts/40-cinnamon-rolls.png`. Built-in ImageGen edit prompt: recreate the spiral cinnamon roll from screenshot 6:51:45, preserving golden pastry and thin translucent glaze; remove hands and background, reconstruct obscured edges, match existing Oreo asset studio lighting and three-quarter framing, one whole roll centered with 8% transparent margin, genuine alpha, no added toppings, text or props.
+
+### Cinnamon Rolls visual refinement
+
+Replaced `public/assets/donuts/40-cinnamon-rolls.png` using built-in ImageGen at the user’s request. Final edit prompt: preserve the same golden spiral cinnamon roll and thin translucent glaze; improve to a flattering three-quarter angle showing a plumper baked side, clearly defined cinnamon seams, warm golden edges, refined soft glaze highlights, realistic dough texture and soft professional bakery lighting; one whole centered roll with safe transparent margins and genuine alpha; no frosting, extra toppings, props or text.
